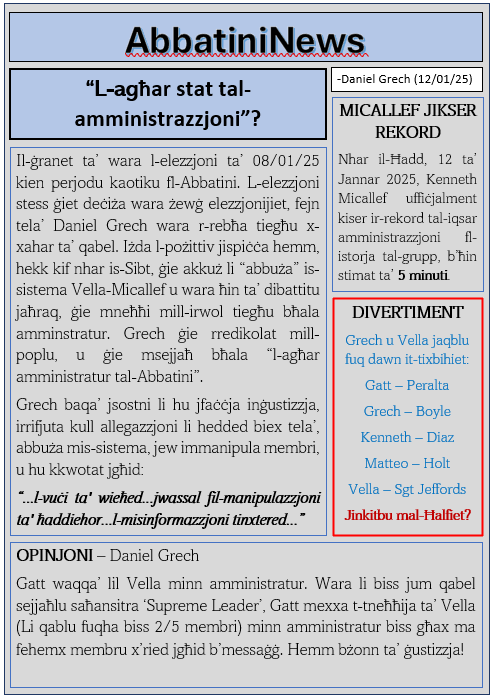
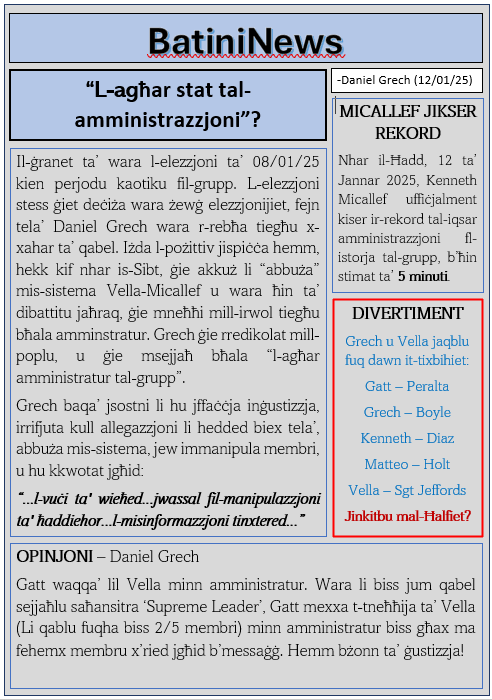
name

diff --git a/index.html b/index.html
@@ -3,11 +3,11 @@
 <head>
     <meta charset="UTF-8">
     <meta name="viewport" content="width=device-width, initial-scale=1.0">
-    <title>Abbatini</title>
-    <meta property="og:title" content="Abbatini">
+    <title>BÃT1N1</title>
+    <meta property="og:title" content="BÃT1N1">
     <meta property="og:description" content="Home">
-    <meta property="og:url" content="https://danielg17.github.io/abbatini.net/">
-    <meta property="og:image" content="https://danielg17.github.io/abbatini.net/stickers.jpg">
+    <meta property="og:url" content="https://danielg17.github.io/batini.net/">
+    <meta property="og:image" content="https://danielg17.github.io/batini.net/stickers.jpg">
     <meta property="og:type" content="website">
     <link rel="icon" href="icon.jpg" type="image/jpeg">
     <link rel="shortcut icon" href="icon.jpg" type="image/jpeg">
@@ -126,7 +126,7 @@
     </div>
 
     <br>
-    <h2>AbbatiniNews</h2>
+    <h2>BatiniNews</h2>
     <h3>out every Wednesday and Sunday</h3>
     <div class="images-container">
         <div>
@@ -139,12 +139,12 @@
         </div>
     </div>
 
-    <h1 style="margin-top: 80px;">Abbatini at Mt Etna</h1>
+    <h1 style="margin-top: 80px;">BÃT1N1 at Mt Etna</h1>
     <iframe 
 	width="560"
 	height="315"
 	src="etna.mp4"
-	title="Abbatini at Mt Etna"
+	title="BÃT1N1 at Mt Etna"
 	frameborder="0"
 	allow="accelerometer; autoplay; clipboard-write; encrypted-media; gyroscope; picture-in-picture; web-share" 	referrerpolicy="strict-origin-when-cross-origin"
 	allowfullscreen>

diff --git a/election.html b/election.html
@@ -4,10 +4,10 @@
     <meta charset="UTF-8">
     <meta name="viewport" content="width=device-width, initial-scale=1.0">
     <title>Election</title>
-    <meta property="og:title" content="Abbatini">
+    <meta property="og:title" content="BÃT1N1">
     <meta property="og:description" content="Election">
-    <meta property="og:url" content="https://danielg17.github.io/abbatini.net/election.html">
-    <meta property="og:image" content="https://danielg17.github.io/abbatini.net/stickers.jpg">
+    <meta property="og:url" content="https://danielg17.github.io/batini.net/election.html">
+    <meta property="og:image" content="https://danielg17.github.io/batini.net/stickers.jpg">
     <meta property="og:type" content="website">
     <link rel="icon" href="icon.jpg" type="image/jpeg">
     <link rel="shortcut icon" href="icon.jpg" type="image/jpeg">
@@ -97,9 +97,9 @@
 	<div class="content">
     <h2>FEBRUARY ELECTION</h2>
     <p>
-        From the 1st of February till the 8th (Election Day), <br>the 4 Abbatini citizens will decide who amongst them will contest the election against the administrator.
+        From the 1st of February till the 8th (Election Day), <br>the 4 BÃT1N1 citizens will decide who amongst them will contest the election against the administrator.
     </p>
-    <h2>AbbatiniNews: CURRENT PROJECTION</h2>
+    <h2>BatiniNews: CURRENT PROJECTION</h2>
         <div class="images-container">
             <div class="image-row">
                 <img src="john.jpeg" alt="Image 1">

diff --git a/aboutus.html b/aboutus.html
@@ -4,10 +4,10 @@
     <meta charset="UTF-8">
     <meta name="viewport" content="width=device-width, initial-scale=1.0">
     <title>About Us</title>
-    <meta property="og:title" content="Abbatini">
+    <meta property="og:title" content="BÃT1N1">
     <meta property="og:description" content="About Us">
-    <meta property="og:url" content="https://danielg17.github.io/abbatini.net/aboutus.html">
-    <meta property="og:image" content="https://danielg17.github.io/abbatini.net/stickers.jpg">
+    <meta property="og:url" content="https://danielg17.github.io/batini.net/aboutus.html">
+    <meta property="og:image" content="https://danielg17.github.io/batini.net/stickers.jpg">
     <meta property="og:type" content="website">
     <link rel="icon" href="icon.jpg" type="image/jpeg">
     <link rel="shortcut icon" href="icon.jpg" type="image/jpeg">
@@ -88,7 +88,7 @@
     </header>
 
     <div class="content">
-        <h2>Abbatini - est. 2023</h2>
+        <h2>BÃT1N1 - est. 2023</h2>
         <p>
             John Gatt - Daniel Vella - Kenneth Micallef - Daniel Grech - Matteo Camilleri
         </p>
@@ -110,7 +110,7 @@
     </div>
 
     <footer>
-        <p>&copy; 2025 AbbatiniNews. All rights reserved.</p>
+        <p>&copy; 2025 BatiniNews. All rights reserved.</p>
     </footer>
 </body>
 </html>

diff --git a/archive.html b/archive.html
@@ -3,11 +3,11 @@
 <head>
     <meta charset="UTF-8">
     <meta name="viewport" content="width=device-width, initial-scale=1.0">
-    <title>AbbatiniNews Archive</title>
-    <meta property="og:title" content="Abbatini">
-    <meta property="og:description" content="AbbatiniNews Archive">
-    <meta property="og:url" content="https://danielg17.github.io/abbatini.net/archive.html">
-    <meta property="og:image" content="https://danielg17.github.io/abbatini.net/stickers.jpg">
+    <title>BatiniNews Archive</title>
+    <meta property="og:title" content="BÃT1N1">
+    <meta property="og:description" content="BatiniNews Archive">
+    <meta property="og:url" content="https://danielg17.github.io/batini.net/archive.html">
+    <meta property="og:image" content="https://danielg17.github.io/batini.net/stickers.jpg">
     <meta property="og:type" content="website">
     <link rel="icon" href="icon.jpg" type="image/jpeg">
     <link rel="shortcut icon" href="icon.jpg" type="image/jpeg">
